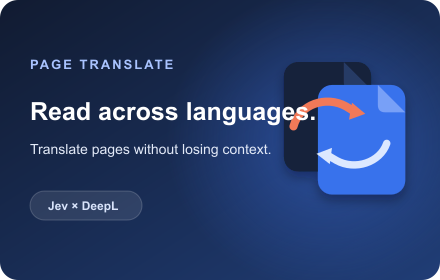
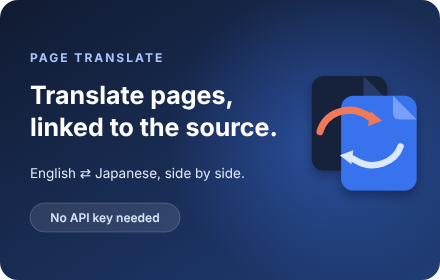
ストア掲載の説明文・概要・プロモーションタイルを今の機能に合わせる（v1.8.1）
Claude-Session: https://claude.ai/code/session_01CnyWqPbgFwWK4nSz3Pr12f

diff --git a/src/manifest.ts b/src/manifest.ts
@@ -3,8 +3,8 @@ import { defineManifest } from "@crxjs/vite-plugin";
 export default defineManifest({
   manifest_version: 3,
   name: "Page Translate",
-  version: "1.8.0",
-  description: "Translate English and Japanese web pages with Jev and DeepL, with translations linked to their source.",
+  version: "1.8.1",
+  description: "Translate English and Japanese pages, linked to their source. No API key needed with Chrome's built-in translator.",
   minimum_chrome_version: "116",
   permissions: ["contextMenus", "sidePanel", "storage"],
   icons: {

diff --git a/store/listing-ja.md b/store/listing-ja.md
@@ -3,7 +3,7 @@
 ## 商品情報
 
 - 商品名：Page Translate
-- 短い説明：英語と日本語のページを、原文の位置と結んで翻訳。Chrome内蔵の翻訳ならAPIキー不要。DeepLやJevにも対応。
+- 短い説明（manifestの`description`。ダッシュボードの「パッケージの概要」に出ます。英語のみ）：Translate English and Japanese pages, linked to their source. No API key needed with Chrome's built-in translator.
 - カテゴリ：仕事効率化（Productivity）
 - 言語：日本語
 - サポートURL：https://github.com/s-hiraoku/page-translate-extension/issues
@@ -12,44 +12,7 @@
 
 ## 詳細な説明
 
-ページを離れずに、英語と日本語の文章を翻訳できます。
-
-Page Translateは、表示中のページから本文を抽出して翻訳し、原文の位置と一緒にChromeサイドパネルへ表示します。初期設定ではChromeに内蔵の翻訳を使うので、APIキーなしですぐに使え、文章は外部へ送りません。DeepLのAPIキーを登録すればDeepLで、TypeSafe Jevのキーを登録すればJevが翻訳対象を選んで翻訳します。
-
-### 主な機能
-
-- 英語から日本語、日本語から英語へのページ翻訳
-- 初期設定はChrome内蔵の翻訳：APIキー不要で、文章をこの端末の中で翻訳（パソコン版のChrome 138以降）。DeepLにも切り替え可能
-- 原文をページに残し、訳文を位置情報と一緒にサイドパネルに表示
-- 項目を選ぶと原文の場所へ移動し、コネクタで対応箇所を表示
-- 翻訳文をページ上に表示し、原文へ戻すモード
-- TypeSafe Jevが文章ごとに翻訳対象を選定
-- 英作文チェック：自分で書いた英文の訳し戻し、DeepLのお手本英訳との比較、DeepL Writeの添削（有料プランのキー）
-- 日本語から英訳：言いたいことを英語にし、訳し戻しで意図どおりか確認
-- 翻訳のキャッシュ：同じページを開き直したとき、数時間以内なら保存した翻訳を再利用（ページが更新されていたら翻訳し直し）
-- DeepLの接続先はキーから自動で判定（無料・有料プランを手動で選ぶこともできます）
-- 選択範囲翻訳：ページ上で選んだ文章だけを、その場のツールチップに翻訳して表示（サイドパネルを閉じたままでも、ショートカット・右クリック・「選択したら自動で翻訳」で使えます）
-- キーボードショートカット：Alt+Shift+Yで翻訳、Alt+Shift+Kでページ選択のオン・オフ、Alt+Shift+Sで選択した文章を翻訳（MacはControl+Shift、変更可能）
-
-### APIキーについて
-
-Chrome内蔵の翻訳（初期設定）ではAPIキーは不要です。DeepLやTypeSafe Jevを使う場合は、APIキーを利用者自身で用意してください。API利用枠や料金は各サービスの契約に従います。キーはこのChromeセッションのメモリにのみ保存され、Chrome終了時または拡張機能の再読み込み・更新時に消去されます。Page Translateに共有APIキーや中継サーバーはありません。
-
-### データの送信
-
-初期設定のChrome内蔵の翻訳では、文章は外部へ送らず、この端末の中で翻訳します。DeepLやJevを使う場合は、次のとおり送信します。翻訳開始時に、ページから抽出した候補文章とページタイトルをTypeSafe Jevへ送ります。Jevが選んだ文章だけをDeepLへ送ります。APIキーは各サービスへの認証に直接使用します。送信先はTypeSafe JevとDeepLで、Page Translateの開発者はページ文章、APIキー、翻訳結果を受信・保存しません。翻訳を始める前に拡張機能内で送信内容と送信先を表示し、同意後に処理を開始します。
-
-個人情報や機密情報を含む文章を送る場合は、TypeSafe Jevおよび利用するDeepL APIプランの条件を確認してください。
-
-### 権限の説明
-
-- すべてのWebページへのアクセス：利用者が翻訳を開始したときに、表示中のページから文章を抽出し、選んだモードで表示するために使います。
-- `contextMenus`：ページ上の右クリックメニューに「選択範囲を翻訳」「選択したら自動で翻訳」を表示します。
-- `sidePanel`：翻訳結果と設定をChromeサイドパネルに表示します。
-- `storage`：表示設定とデータ送信への同意を保存し、APIキーをChromeセッション中だけ保持します。翻訳したページの結果も、同じページを開いたときに再利用するため、設定した時間（初期値3時間）だけこの端末の拡張機能内に保存します。外部へは送信せず、設定でオフにしたり削除したりできます。
-- TypeSafe Jev / DeepLへの接続：翻訳候補の判定と文章の翻訳に使います。
-
-使い方ガイド、サポート、プライバシーポリシーは上記URLをご覧ください。
+`store/description-ja.txt` をそのままダッシュボードの「説明」欄に貼り付けます（プレーンテキスト）。
 
 ## 画像
 

diff --git a/store/listing-en.md b/store/listing-en.md
@@ -3,7 +3,7 @@
 ## Product details
 
 - Name: Page Translate
-- Short description: Translate English and Japanese pages beside their source. No API key needed with Chrome's built-in translator; DeepL and Jev supported.
+- Short description (manifest `description`, shown as the package summary): Translate English and Japanese pages, linked to their source. No API key needed with Chrome's built-in translator.
 - Category: Productivity
 - Language: English
 - Support URL: https://github.com/s-hiraoku/page-translate-extension/issues
@@ -12,44 +12,7 @@
 
 ## Detailed description
 
-Translate English and Japanese text without leaving the page you are reading.
-
-Page Translate extracts the body text of the current page, translates it, and shows each result in the Chrome side panel with its original page location. By default it uses Chrome's built-in translator, so it works without an API key and the text stays on your device. Register a DeepL API key to translate with DeepL, and a TypeSafe Jev key to have Jev choose what to translate.
-
-### Features
-
-- Translate page text from English to Japanese or Japanese to English
-- Chrome's built-in translator by default: no API key, text translated on your device (desktop Chrome 138+); switch to DeepL any time
-- Keep the original page text and review translations beside their source locations
-- Jump from a result to its source and see a temporary connector
-- Show translations directly on the page and restore the original text
-- Let TypeSafe Jev classify candidate text before translation
-- Writing check: see what your own English conveys, compare it with DeepL's translation of what you meant, and get DeepL Write corrections (paid-plan keys)
-- Japanese to English: turn what you want to say into English, and translate it back to confirm it says what you meant
-- Translation cache: reopen a page within a few hours and its saved translation is reused (changed passages are translated again)
-- DeepL server detected from your key (free or paid plan can also be chosen manually)
-- Selection translation: translate just the text you select on a page, shown in a tooltip right next to it (it also works with the side panel closed: by shortcut, right-click, or “Translate as I select”)
-- Keyboard shortcuts: Alt+Shift+Y translates the page, Alt+Shift+K toggles page-click mode, Alt+Shift+S translates the selected text (Control+Shift on Mac; customizable)
-
-### API keys
-
-No API key is needed with Chrome's built-in translator (the default). To use DeepL or TypeSafe Jev, provide your own API keys. Provider quotas and charges depend on your provider accounts. Keys are held only in memory for the current Chrome session and are cleared when Chrome restarts or the extension is reloaded or updated. Page Translate includes no shared API keys or relay server.
-
-### Data handling
-
-With Chrome's built-in translator (the default), text is translated on your device and not sent anywhere. When DeepL or Jev is used: when you start a translation, candidate page text and the page title are sent to TypeSafe Jev. Only text selected by Jev is sent to DeepL. API keys are sent directly to each provider for authentication. The recipients are TypeSafe Jev and DeepL; the Page Translate developer does not receive or store page text, API keys, or translations. Before processing begins, the extension explains what is sent and where, and waits for your consent.
-
-Check the terms of TypeSafe Jev and your chosen DeepL API plan before sending text containing personal or confidential information.
-
-### Permissions
-
-- Access to all websites: used to extract text from the page you choose to translate and apply the display mode you select.
-- `contextMenus`: adds “Translate selection” and “Translate as I select” to the page's right-click menu.
-- `sidePanel`: displays translations and settings in the Chrome side panel.
-- `storage`: saves display settings and data-use consent, and holds API keys only for the Chrome session. It also keeps translated pages on this device for the time you choose (3 hours by default) so a page you reopen is not translated again; nothing is sent anywhere, and it can be turned off or deleted in Settings.
-- Connections to TypeSafe Jev and DeepL: used to classify candidate text and translate selected text.
-
-See the user guide, the support page and the privacy policy for more information.
+Paste `store/description-en.txt` into the Dashboard's Description field as is (plain text).
 
 ## Images
 
